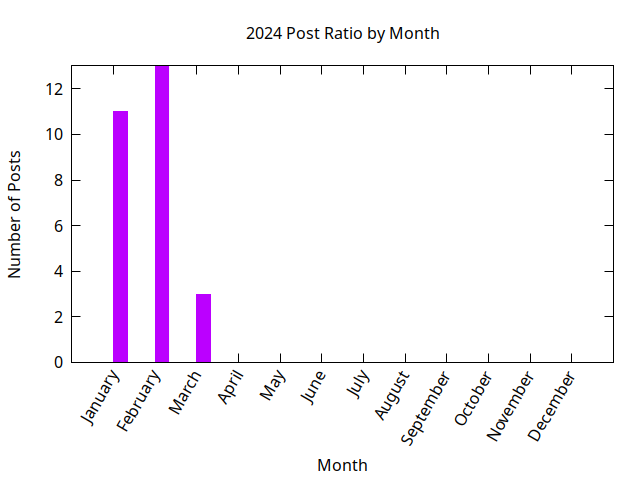
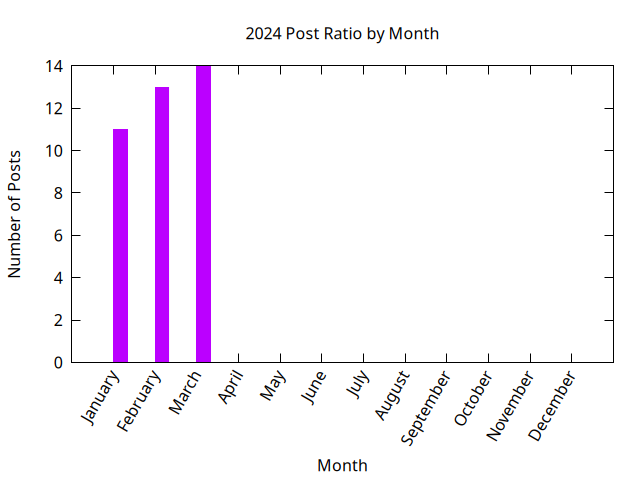
Stats update

diff --git a/_includes/stats/2024.md b/_includes/stats/2024.md
@@ -1,24 +1,25 @@
 <a name="2024" />
 ## 2024 (work in progress)
 
-**27 total posts** have been written on 2024.
-There have been *14 different tags* used, the most
+**38 total posts** have been written on 2024.
+There have been *15 different tags* used, the most
 popular being (sorted by number of posts):
  
-- *perl* (19 posts)  
-- *raku* (11 posts)  
-- *perlweeklychallenge* (11 posts)  
-- *planet-postgresql-org* (9 posts)  
-- *postgresql* (9 posts)  
-- *python* (7 posts)  
-- *java* (7 posts)  
-- *mojolicious* (2 posts)  
+- *perl* (26 posts)  
+- *perlweeklychallenge* (14 posts)  
+- *raku* (14 posts)  
+- *postgresql* (12 posts)  
+- *python* (12 posts)  
+- *planet-postgresql-org* (12 posts)  
+- *java* (10 posts)  
+- *mojolicious* (3 posts)  
+- *pgagroal* (2 posts)  
 - *pljava* (2 posts)  
+- *dbiclass* (1 posts)  
 - *pgenv* (1 posts)  
-- *pgagroal* (1 posts)  
-- *zsh* (1 posts)  
 - *emacs* (1 posts)  
-- *dbiclass* (1 posts).<br/>
+- *distzilla* (1 posts)  
+- *zsh* (1 posts).<br/>
 <br/>
 The following is the overall 2024 post ratio by month:
 <br/>
@@ -37,7 +38,7 @@ The following is the overall 2024 post ratio by tag (showing max 30 tags):
 
 <div align="right">
 <small>
-Last generated on 2024-03-04 at 16:05
+Last generated on 2024-03-27 at 14:55
 </small>
 </div>
 
